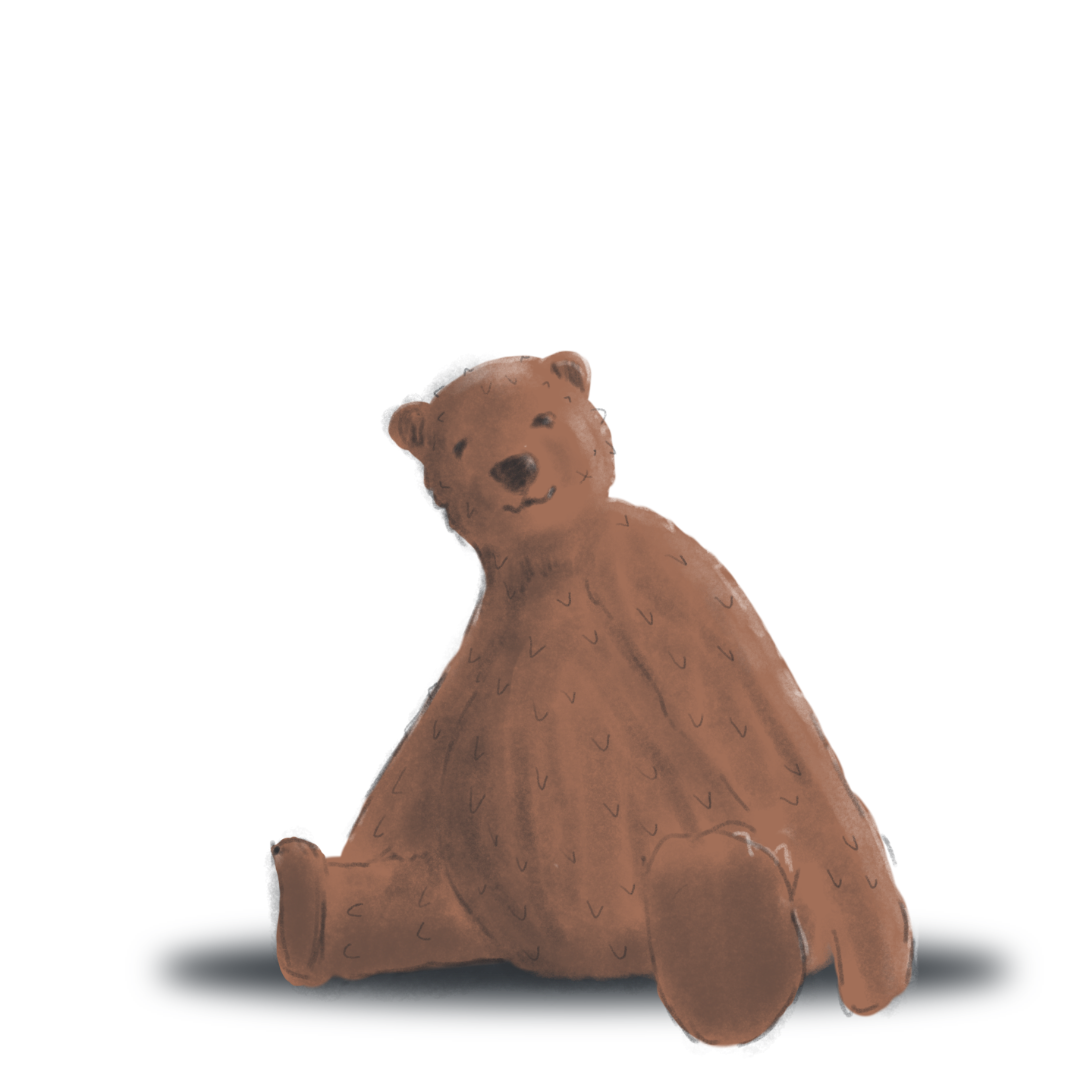
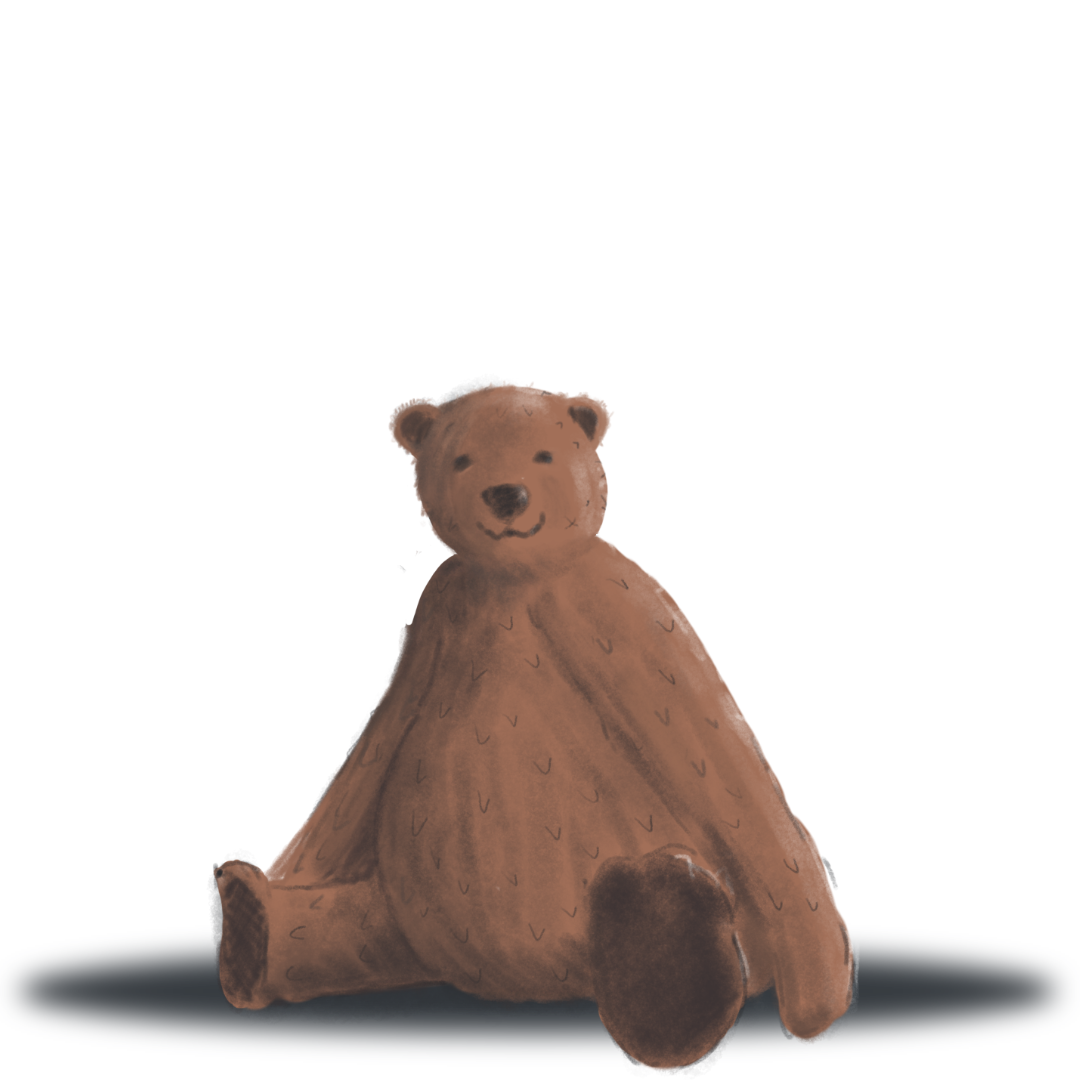
Added some 'feature' content to the readme file + reordered the handlePoke function

Changed region(s): [[0.0, 0.3056, 0.9778, 1.0], [0.5194, 0.6111, 0.6111, 0.7333]]

diff --git a/assets/js/script.js b/assets/js/script.js
@@ -204,6 +204,25 @@ async function handlePoke (globalHTML, globalVariables) {
     /* Increment rage meter by 0-15 */
     setRageMeter(globalHTML, globalVariables, Math.random() * 15, true);
 
+    // Handle game logic
+    if (globalVariables.rageMeter >= 100) {
+        kickChosenPlayer(globalHTML, globalVariables);
+        await waitMs(2000); // Wait 2 seconds
+        // If there's only one player left, declare a winner 
+        if (globalVariables.alivePlayers.length === 1){
+            globalHTML.playerHint.innerHTML = 
+                `<div>${globalVariables.alivePlayers[0]}</div><div style="color: var(--green); font-family: 'Luckiest Guy', sans-serif;">YOU WON!</div>`;
+                await waitMs(5000); // Wait 5 seconds before resetting the game
+            resetGame(globalHTML, globalVariables);
+        }else{
+            // If there are players, reset the rage meter 
+            setRageMeter(globalHTML, globalVariables, 0);
+            pickNewPlayer(globalHTML, globalVariables);
+        }
+    }else {
+        pickNewPlayer(globalHTML, globalVariables);
+    }
+
     // Change the bear image at specified levels + SEO & accessibility optimization
     let updatedBearStyle = {};
     if (globalVariables.rageMeter < 33) {
@@ -218,25 +237,6 @@ async function handlePoke (globalHTML, globalVariables) {
     }
     globalHTML.bearImage.src = `assets/images/bear/bear_${updatedBearStyle.imageName}.png`;
     globalHTML.bearImage.alt = updatedBearStyle.alt;
-
-    // Handle game logic
-    if (globalVariables.rageMeter >= 100) {
-        kickChosenPlayer(globalHTML, globalVariables);
-        await waitMs(2000); // Wait 2 seconds
-        // If there's only one player left, declare a winner 
-        if (globalVariables.alivePlayers.length === 1){
-            globalHTML.playerHint.innerHTML = 
-                `<div>${globalVariables.alivePlayers[0]}</div><div style="color: var(--green); font-family: 'Luckiest Guy', sans-serif;">YOU WON!</div>`;
-            await waitMs(5000); // Wait 5 seconds before resetting the game
-            resetGame(globalHTML, globalVariables);
-        }else{
-            // If there are players, reset the rage meter 
-            setRageMeter(globalHTML, globalVariables, 0);
-            pickNewPlayer(globalHTML, globalVariables);
-        }
-    }else {
-        pickNewPlayer(globalHTML, globalVariables);
-    }
 
     globalHTML.pokeButton.disabled = false; // Enable poke button
 }

diff --git a/assets/css/style.css b/assets/css/style.css
@@ -279,7 +279,7 @@ input {
 }
 
 #bear img {
-    height: 48vh;
+    height: 57vh;
     width: auto; /* Force img scale proportionally */
 }
 

diff --git a/README.md b/README.md
@@ -39,7 +39,7 @@ Here's a breakdown of some ideas and improvements to further develop this projec
 
 ### **Settings**
 
-At the landing page/start menu and perhaps accessible inside the game, a 'settings area' should be considered to both solve problems and enhance the user experience. Here's a breakdown of some of the settings that could be implemented. 
+At the landing page/start menu and perhaps accessible inside the game, a 'settings area' should be considered to both solve problems and to enhance the user experience. Here's a breakdown of some of the settings that could be implemented. 
 
 ##### **Temperament meter** 
 
@@ -47,6 +47,32 @@ At the landing page/start menu and perhaps accessible inside the game, a 'settin
 
 This could make it easier to speed up a game if it is a large group who is playing.
 
+### **Additional ideas** 
+
+Right now, the game is very limited in terms of possibilities. More features could easily be implemented to further increase the excitment when playing this game. Here's a list of some ideas.
+
+- **Spinning wheel**
+
+instead of just a poke button, a spinning wheel could be introduced. This wheel would randomly pick between a set of buttons. Button examples:
+
+1. Petting button
+
+A button that lets the user pet the bear, this would decrease the rage meter.
+
+2. Lazer pointer button
+
+This would definitely increase the rage meter
+
+3. Salmon button
+
+Give the button a salmon! This would bring the rage down to 0.
+
+- **List of other implementations**
+
+1. Delete all players button
+2. Rules pop-up at the game menu
+3. See who won in the previous game indicated by a star or similar
+4. Scoreboard
 
 ## Credits and resources
 
